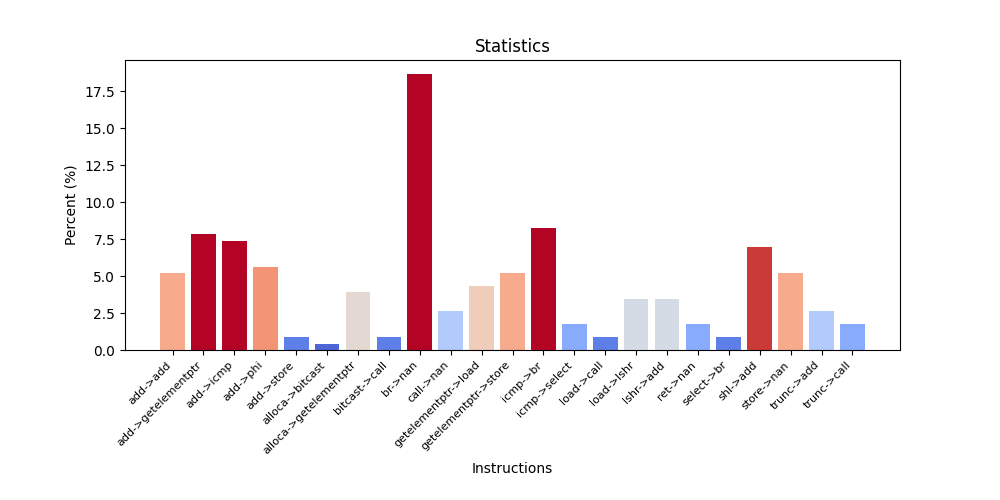
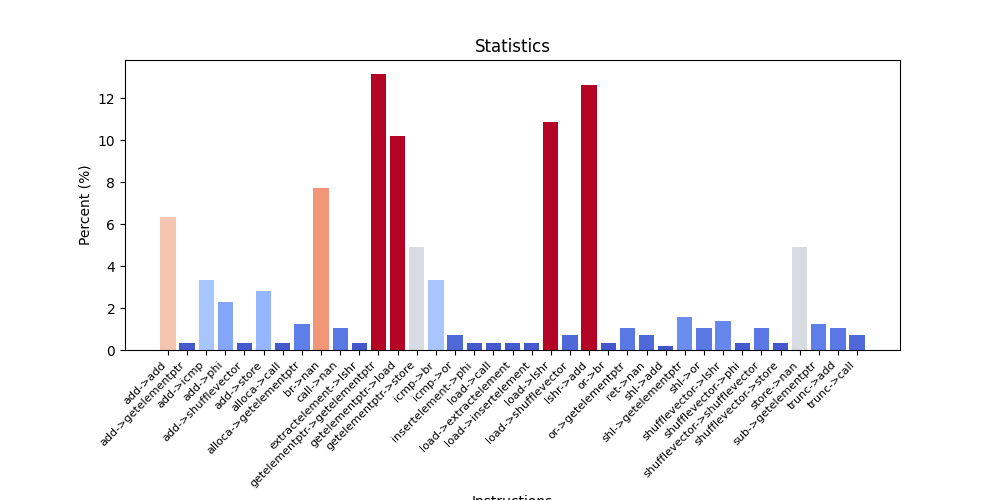
Fixed pass stages

diff --git a/llvm_pass/src/StatPass.cpp b/llvm_pass/src/StatPass.cpp
@@ -46,10 +46,6 @@ struct MyModPass : public PassInfoMixin<MyModPass> {
 
 PassPluginLibraryInfo getPassPluginInfo() {
   const auto callback = [](PassBuilder &PB) {
-    PB.registerPipelineStartEPCallback([&](ModulePassManager &MPM, auto) {
-      MPM.addPass(MyModPass{});
-      return true;
-    });
     PB.registerOptimizerLastEPCallback([&](ModulePassManager &MPM, auto) {
       MPM.addPass(MyModPass{});
       return true;
